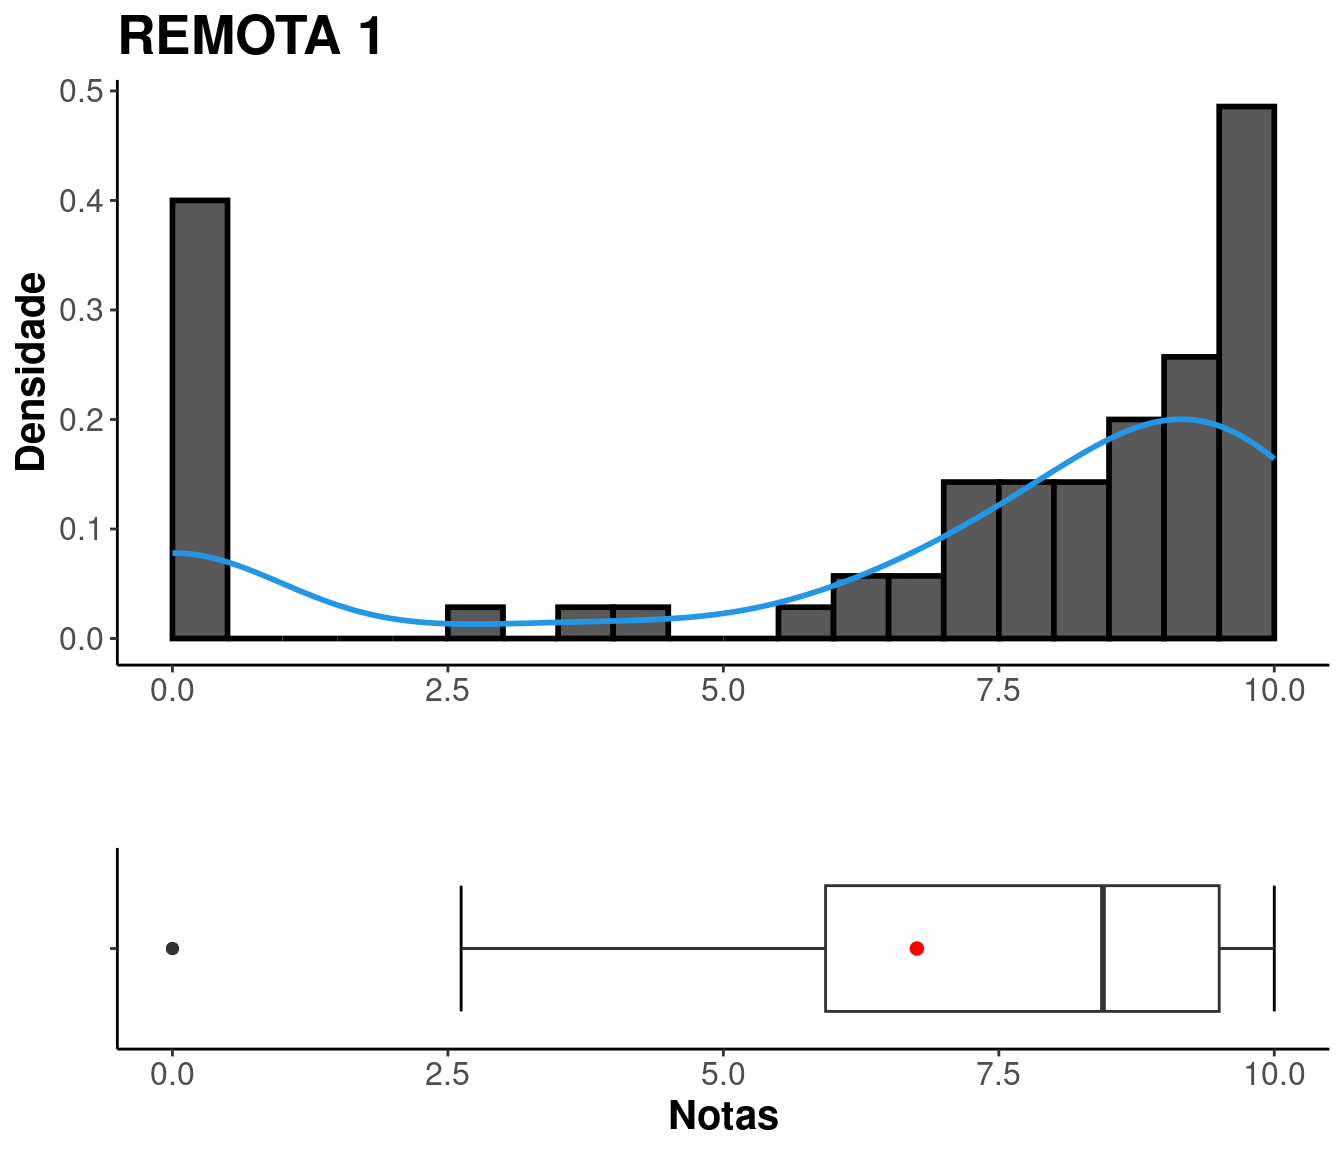
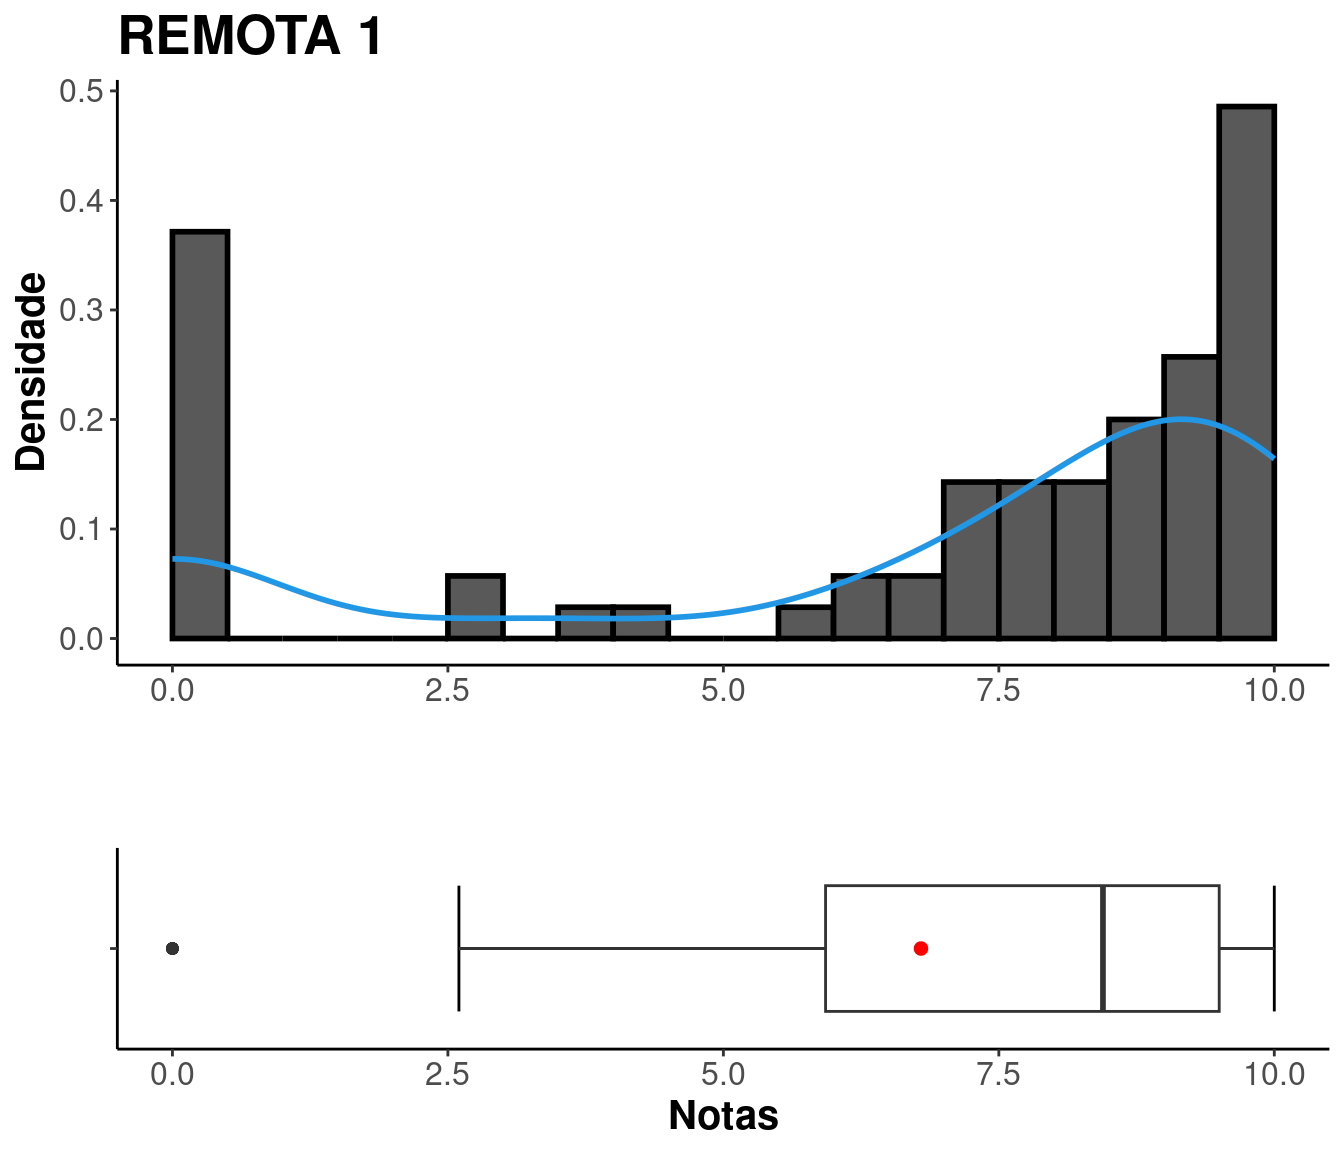
adiciona notas segunda chamada p1

diff --git a/notas.html b/notas.html
@@ -408,8 +408,8 @@ Cavazani de Freitas</div></h3>
 <p>Busque sua situação digitando seu GRR na caixa “Search”.</p>
 <p><br />
 </p>
-<div class="datatables html-widget html-fill-item-overflow-hidden html-fill-item" id="htmlwidget-78e75f770570b1c7d3f6" style="width:100%;height:auto;"></div>
-<script type="application/json" data-for="htmlwidget-78e75f770570b1c7d3f6">{"x":{"filter":"none","vertical":false,"editable":{"target":"cell","disable":{"columns":null},"numeric":[1,2,3,4],"date":[]},"data":[["GRR20242362","GRR20231110","GRR20243664","GRR20246211","GRR20244433","GRR20245487","GRR20231084","GRR20242232","GRR20242002","GRR20243259","GRR20242597","GRR20224774","GRR20212066","GRR20231140","GRR20242590","GRR20244762","GRR20224898","GRR20242668","GRR20231100","GRR20240908","GRR20221431","GRR20240015","GRR20241136","GRR20240635","GRR20242230","GRR20244545","GRR20246288","GRR20242067","GRR20203831","GRR20235528","GRR20211300","GRR20240308","GRR20231134","GRR20242902","GRR20242084","GRR20245283","GRR20240199","GRR20231102","GRR20241641","GRR20246109","GRR20241016","GRR20240212","GRR20241234","GRR20240349","GRR20231098","GRR20221432","GRR20241038","GRR20244630","GRR20231137","GRR20240429","GRR20242663","GRR20231095","GRR20172573","GRR20240917","GRR20231108","GRR20231119","GRR20215537","GRR20242746","GRR20211312","GRR20166481","GRR20203874","GRR20241159","GRR20235996","GRR20209956","GRR20240193","GRR20244845","GRR20242753","GRR20245090","GRR20245416","GRR20246179"],[4,4,2,2,0,6,6,4,4,0,6,2,20,0,10,8,6,4,2,0,6,6,0,2,0,2,14,2,2,4,10,8,4,2,2,4,4,6,0,20,4,0,4,0,18,14,10,2,0,4,2,6,18,4,2,20,6,2,8,10,2,4,4,0,2,0,2,4,0,0],[8.199999999999999,8.5,7.2,4.3,9.800000000000001,3.5,7,3.5,6.1,7,2,3.3,null,5,null,3,5.3,4,5.7,6,7.8,8.1,8,6.1,6.7,8.199999999999999,null,5.3,8.5,8,null,4,6.2,8.1,6,7,4.5,4.2,8.699999999999999,null,8.199999999999999,8.300000000000001,7.5,8.9,null,null,7,5.5,8,7.2,5,6.5,null,7.6,7,null,3,5,null,5.7,null,8.6,5.5,7,8.6,4.3,8.5,1.3,8.4,7.2],[8,9.85,10,7.94,10,7.1,9.18,5.83,8.32,9.75,2.62,0,0,8.74,0,0,7.43,6.22,10,9.02,9.5,9,8.69,7.32,8.44,9.92,0,7.97,0,8.75,0,7.25,6.25,10,8.5,10,7.95,6.65,9.5,0,9.51,9.49,9.83,10,0,4.18,6.58,9.75,9.699999999999999,7.33,8.640000000000001,9.44,0,9.57,7.79,0,0,8.449999999999999,0,9.25,9.59,10,8.75,8.92,9.15,0,10,3.81,9.27,8.24],[7.83,9.050000000000001,10,2.78,10,6.95,8.25,6.55,9.23,9.029999999999999,1.88,0,0,6.88,0,0,6.38,2.73,9.07,8.35,9.33,8.81,9.039999999999999,4.53,9.029999999999999,9.5,0,9.369999999999999,0,5.43,0,5.77,5.23,9.4,9.1,9.029999999999999,4.93,6.66,6.88,0,8.35,8.529999999999999,9.4,10,0,0,4.7,0,8.779999999999999,6.1,5.73,5.1,0,9.050000000000001,6.18,0,0,7.15,0,7.75,6.35,9.630000000000001,0,4.93,7.66,0,9.4,2.08,8.91,5.58]],"container":"<table class=\"cell-border stripe\">\n  <thead>\n    <tr>\n      <th>GRR<\/th>\n      <th>FALTAS<\/th>\n      <th>PROVA 1<\/th>\n      <th>REMOTA 1<\/th>\n      <th>REMOTA 2<\/th>\n    <\/tr>\n  <\/thead>\n<\/table>","options":{"columnDefs":[{"className":"dt-right","targets":[1,2,3,4]}],"order":[],"autoWidth":false,"orderClasses":false}},"evals":[],"jsHooks":[]}</script>
+<div class="datatables html-widget html-fill-item-overflow-hidden html-fill-item" id="htmlwidget-d2af8270c0a2f6d794e9" style="width:100%;height:auto;"></div>
+<script type="application/json" data-for="htmlwidget-d2af8270c0a2f6d794e9">{"x":{"filter":"none","vertical":false,"editable":{"target":"cell","disable":{"columns":null},"numeric":[1,2,3,4],"date":[]},"data":[["GRR20242362","GRR20231110","GRR20243664","GRR20246211","GRR20244433","GRR20245487","GRR20231084","GRR20242232","GRR20242002","GRR20243259","GRR20242597","GRR20224774","GRR20212066","GRR20231140","GRR20242590","GRR20244762","GRR20224898","GRR20242668","GRR20231100","GRR20240908","GRR20221431","GRR20240015","GRR20241136","GRR20240635","GRR20242230","GRR20244545","GRR20246288","GRR20242067","GRR20203831","GRR20235528","GRR20211300","GRR20240308","GRR20231134","GRR20242902","GRR20242084","GRR20245283","GRR20240199","GRR20231102","GRR20241641","GRR20246109","GRR20241016","GRR20240212","GRR20241234","GRR20240349","GRR20231098","GRR20221432","GRR20241038","GRR20244630","GRR20231137","GRR20240429","GRR20242663","GRR20231095","GRR20172573","GRR20240917","GRR20231108","GRR20231119","GRR20215537","GRR20242746","GRR20211312","GRR20166481","GRR20203874","GRR20241159","GRR20235996","GRR20209956","GRR20240193","GRR20244845","GRR20242753","GRR20245090","GRR20245416","GRR20246179"],[4,4,2,2,0,6,6,4,4,0,6,2,20,0,10,8,6,4,2,0,6,6,0,2,0,2,14,2,2,4,10,8,4,2,2,4,4,6,0,20,4,0,4,0,18,14,10,2,0,4,2,6,18,4,2,20,6,2,8,10,2,4,4,0,2,0,2,4,0,0],[8.199999999999999,8.5,7.2,4.3,9.800000000000001,3.5,7,3.5,6.1,7,2,3.3,null,5,2.6,3,5.3,4,5.7,6,7.8,8.1,8,6.1,6.7,8.199999999999999,null,5.3,8.5,8,null,4,6.2,8.1,6,7,4.5,4.2,8.699999999999999,null,8.199999999999999,8.300000000000001,7.5,8.9,null,null,7,5.5,8,7.2,5,6.5,null,7.6,7,null,3,5,2.6,5.7,7.4,8.6,5.5,7,8.6,4.3,8.5,1.3,8.4,7.2],[8,9.85,10,7.94,10,7.1,9.18,5.83,8.32,9.75,2.62,0,0,8.74,2.6,0,7.43,6.22,10,9.02,9.5,9,8.69,7.32,8.44,9.92,0,7.97,0,8.75,0,7.25,6.25,10,8.5,10,7.95,6.65,9.5,0,9.51,9.49,9.83,10,0,4.18,6.58,9.75,9.699999999999999,7.33,8.640000000000001,9.44,0,9.57,7.79,0,0,8.449999999999999,0,9.25,9.59,10,8.75,8.92,9.15,0,10,3.81,9.27,8.24],[7.83,9.050000000000001,10,2.78,10,6.95,8.25,6.55,9.23,9.029999999999999,1.88,0,0,6.88,2.6,0,6.38,2.73,9.07,8.35,9.33,8.81,9.039999999999999,4.53,9.029999999999999,9.5,0,9.369999999999999,0,5.43,0,5.77,5.23,9.4,9.1,9.029999999999999,4.93,6.66,6.88,0,8.35,8.529999999999999,9.4,10,0,0,4.7,0,8.779999999999999,6.1,5.73,5.1,0,9.050000000000001,6.18,0,0,7.15,0,7.75,6.35,9.630000000000001,0,4.93,7.66,0,9.4,2.08,8.91,5.58]],"container":"<table class=\"cell-border stripe\">\n  <thead>\n    <tr>\n      <th>GRR<\/th>\n      <th>FALTAS<\/th>\n      <th>PROVA 1<\/th>\n      <th>REMOTA 1<\/th>\n      <th>REMOTA 2<\/th>\n    <\/tr>\n  <\/thead>\n<\/table>","options":{"columnDefs":[{"className":"dt-right","targets":[1,2,3,4]}],"order":[],"autoWidth":false,"orderClasses":false}},"evals":[],"jsHooks":[]}</script>
 <hr />
 </div>
 <div id="presenças" class="section level1">
@@ -480,14 +480,14 @@ class="section level1 tabset tabset-fade tabset-pills">
 <div id="prova-1" class="section level2">
 <h2>PROVA 1</h2>
 <center>
-<table style="width:74%;">
+<table style="width:71%;">
 <colgroup>
 <col width="6%" />
 <col width="12%" />
 <col width="6%" />
 <col width="11%" />
 <col width="13%" />
-<col width="9%" />
+<col width="6%" />
 <col width="12%" />
 </colgroup>
 <thead>
@@ -503,12 +503,12 @@ class="section level1 tabset tabset-fade tabset-pills">
 </thead>
 <tbody>
 <tr class="odd">
-<td align="center">59</td>
+<td align="center">62</td>
 <td align="center">1.3</td>
 <td align="center">5</td>
-<td align="center">6.349</td>
-<td align="center">7</td>
-<td align="center">8.05</td>
+<td align="center">6.245</td>
+<td align="center">6.85</td>
+<td align="center">8</td>
 <td align="center">9.8</td>
 </tr>
 </tbody>
@@ -529,8 +529,8 @@ class="section level1 tabset tabset-fade tabset-pills">
 <tbody>
 <tr class="odd">
 <td align="center">8.5</td>
-<td align="center">3.803</td>
-<td align="center">1.95</td>
+<td align="center">4.084</td>
+<td align="center">2.021</td>
 </tr>
 </tbody>
 </table>
@@ -689,7 +689,7 @@ class="section level1 tabset tabset-fade tabset-pills">
 <td align="center">70</td>
 <td align="center">0</td>
 <td align="center">5.928</td>
-<td align="center">6.756</td>
+<td align="center">6.793</td>
 <td align="center">8.445</td>
 <td align="center">9.5</td>
 <td align="center">10</td>
@@ -712,8 +712,8 @@ class="section level1 tabset tabset-fade tabset-pills">
 <tbody>
 <tr class="odd">
 <td align="center">10</td>
-<td align="center">13.71</td>
-<td align="center">3.703</td>
+<td align="center">13.3</td>
+<td align="center">3.646</td>
 </tr>
 </tbody>
 </table>
@@ -749,8 +749,8 @@ class="section level1 tabset tabset-fade tabset-pills">
 <tr class="odd">
 <td align="center">70</td>
 <td align="center">0</td>
-<td align="center">1.93</td>
-<td align="center">5.548</td>
+<td align="center">2.21</td>
+<td align="center">5.585</td>
 <td align="center">6.465</td>
 <td align="center">9.03</td>
 <td align="center">10</td>
@@ -773,8 +773,8 @@ class="section level1 tabset tabset-fade tabset-pills">
 <tbody>
 <tr class="odd">
 <td align="center">10</td>
-<td align="center">13.55</td>
-<td align="center">3.682</td>
+<td align="center">13.23</td>
+<td align="center">3.638</td>
 </tr>
 </tbody>
 </table>
@@ -907,11 +907,11 @@ class="section level1 tabset tabset-fade tabset-pills">
 <div id="notas-finais" class="section level2">
 <h2>NOTAS FINAIS</h2>
 <center>
-<table style="width:79%;">
+<table style="width:76%;">
 <colgroup>
 <col width="6%" />
 <col width="12%" />
-<col width="11%" />
+<col width="8%" />
 <col width="11%" />
 <col width="13%" />
 <col width="11%" />
@@ -932,8 +932,8 @@ class="section level1 tabset tabset-fade tabset-pills">
 <tr class="odd">
 <td align="center">70</td>
 <td align="center">0</td>
-<td align="center">1.225</td>
-<td align="center">1.781</td>
+<td align="center">1.3</td>
+<td align="center">1.843</td>
 <td align="center">2</td>
 <td align="center">2.675</td>
 <td align="center">3.3</td>
@@ -956,8 +956,8 @@ class="section level1 tabset tabset-fade tabset-pills">
 <tbody>
 <tr class="odd">
 <td align="center">3.3</td>
-<td align="center">0.956</td>
-<td align="center">0.9778</td>
+<td align="center">0.8442</td>
+<td align="center">0.9188</td>
 </tr>
 </tbody>
 </table>
